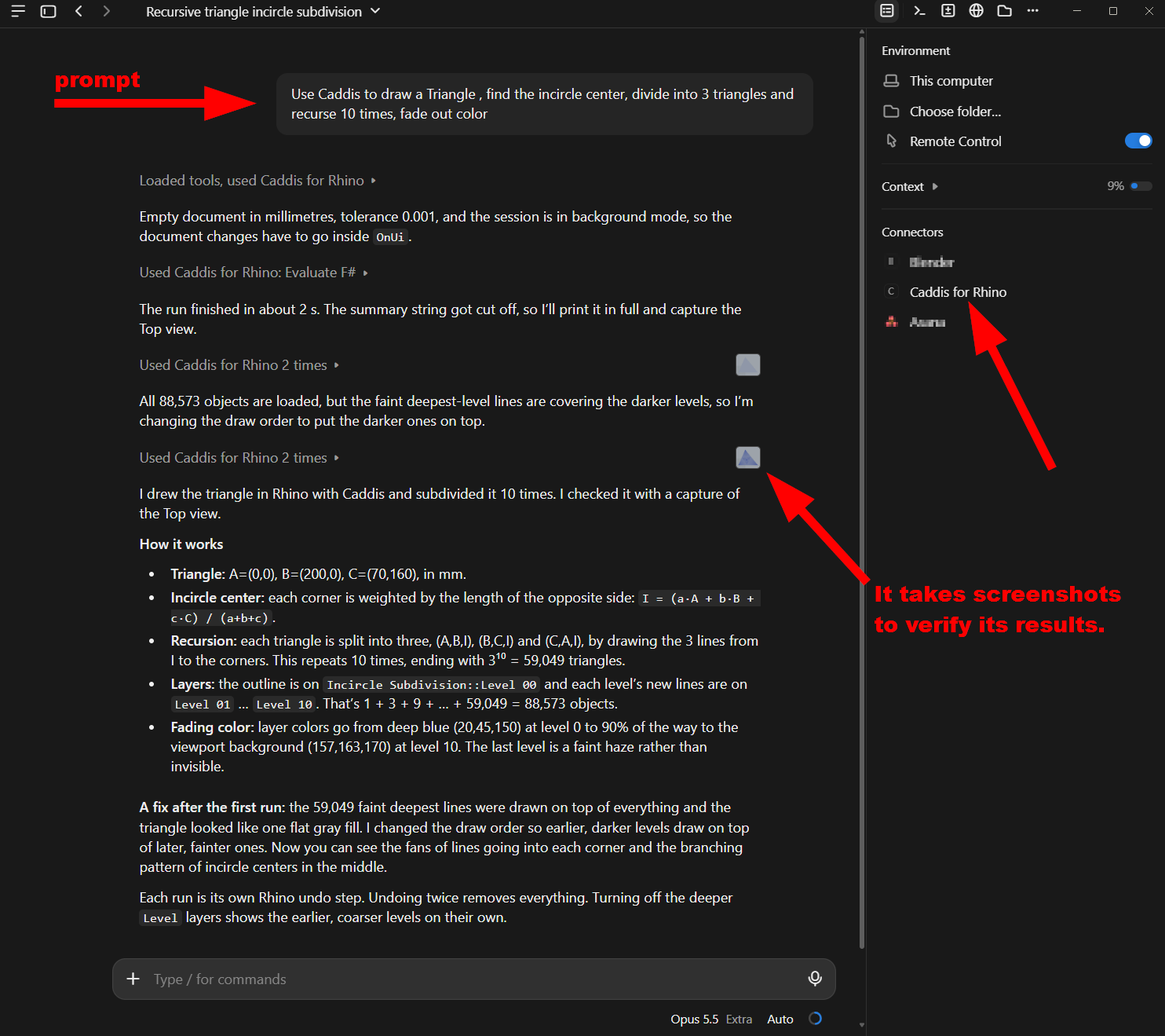
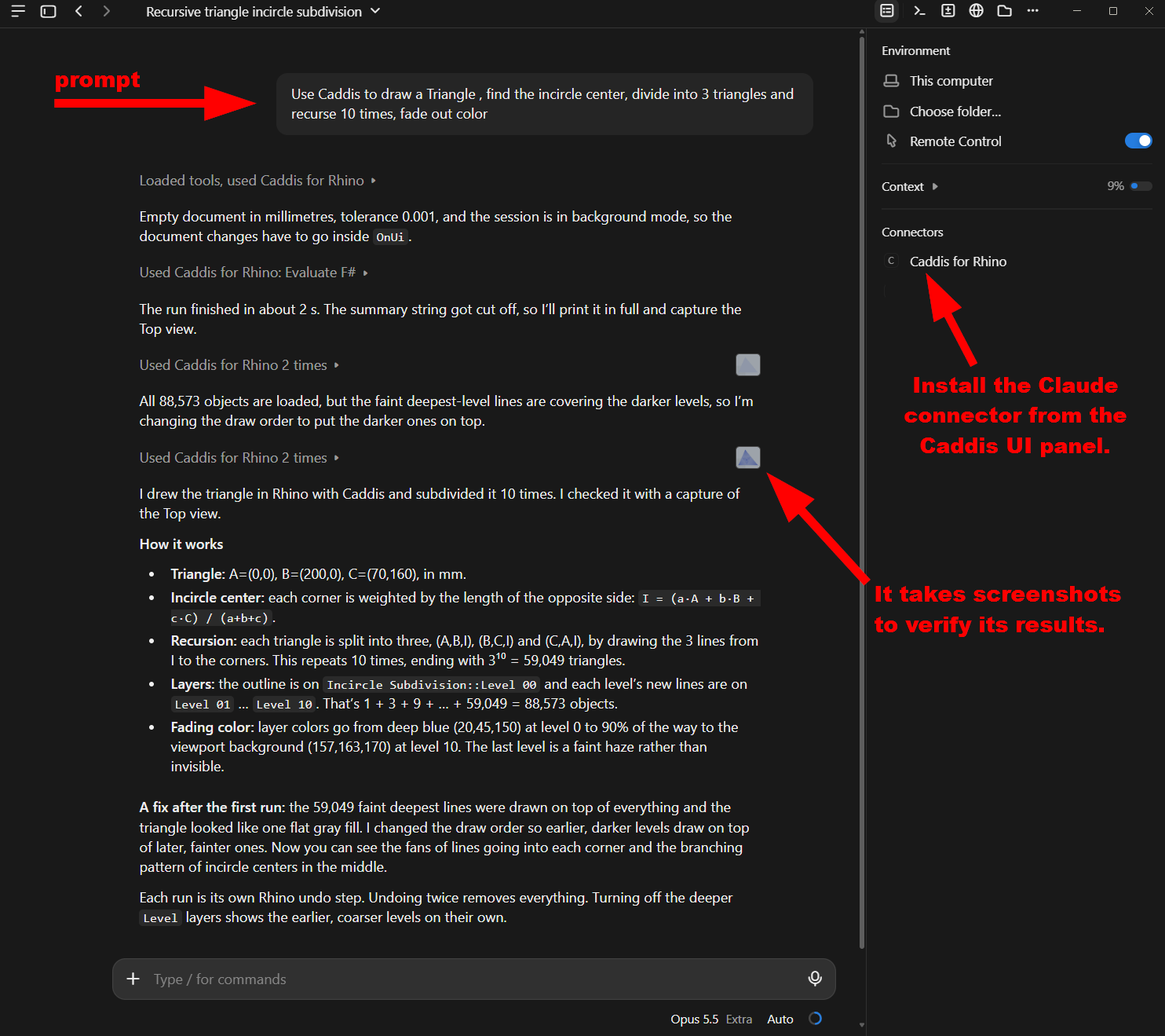
Restructure the README for people new to coding, with new panel screenshots from Rhino 9
Caddis is meant for people who are new to coding, but the README began with the MCP tools and
the REST endpoints. It now starts with what Caddis does in plain words and a screenshot of an agent at work,
then five numbered steps to get started: install Caddis, install an agent, start the server, connect the agent
with Set up, and ask for something. How it works, with a short glossary, follows the steps.
Security comes before the reference, and the details of tools, REST, NuGet, files and development are folded.

Connect an AI agent was in two places, it is now step 4, with a screenshot of the agents in the panel.
The panel screenshots of Caddis for Rhino show the new panel design, taken in Rhino 9.0 with Caddis 0.3.6.

Changed region(s): [[0.7749, 0.2487, 0.9609, 0.4663]]

diff --git a/README.md b/README.md
@@ -12,25 +12,25 @@
 [![license](https://img.shields.io/github/license/goswinr/Caddis)](LICENSE)
 ![code size](https://img.shields.io/github/languages/code-size/goswinr/Caddis.svg)
 
-An MCP server that hosts a persistent F# Interactive session inside [Rhino](https://www.rhino3d.com/), [Revit](https://www.autodesk.com/products/revit/overview) or [AutoCAD](https://www.autodesk.com/products/autocad/overview).
-AI agents run F# code that uses RhinoCommon, the Revit API or the AutoCAD .NET API in the app you are working in.
+Caddis lets an AI agent like Claude or Codex work in the [Rhino](https://www.rhino3d.com/), [Revit](https://www.autodesk.com/products/revit/overview) or [AutoCAD](https://www.autodesk.com/products/autocad/overview) you have open.
+You describe what you want in plain words. The agent writes a short F# script that uses the app's API, Caddis runs it inside the app and sends back the result,
+and the agent checks it, e.g. with a capture of the view, and corrects its script if needed.
 
-**Individual methods of the host APIs are not registered as MCP tools.** Agents discover Caddis's tools through MCP,
-then use `caddis_describe` to explore the API loaded in the running app: search names, list the types in a namespace,
-inspect a type's members, or look up a method's overloads. It returns signatures in F# syntax from reflection,
-with documentation from XML files when available, so agents can check the installed API version before using it.
-They then write F# code that calls those methods, check it with `caddis_check`, and execute it with `caddis_eval`.
+You get the code it ran too: read it to learn the API, run it again, or make a permanent plugin from it.
+This makes Caddis useful for automating your work and for trying out ideas quickly in Rhino, Revit and AutoCAD.
 
-
-Caddis runs F# scripts directly from inside the Rhino, Revit or AutoCAD process and is controlled via HTTP:
-AI agents like Claude or Codex generate the F# code and send it for evaluation and execution inside the host application via its [MCP](https://modelcontextprotocol.io) endpoint.
-
-
-Plus, you get the F# code it ran too, so you could make a permanent plugin from it.
-This makes it ideal for AI-driven automation and rapid prototyping within Rhino, Revit and AutoCAD.
+Technically, Caddis is an [MCP](https://modelcontextprotocol.io) server that hosts a persistent F# Interactive session inside the app,
+where scripts use RhinoCommon, the Revit API or the AutoCAD .NET API.
 
 > Early development. Tested in Revit 2024 and 2026.5, Rhino 8.35 and 9.0 and AutoCAD 2025 on Windows, not yet on Mac.
 
+![Claude Desktop with the prompt, the agent's runs in Rhino with its two captures of the Top view, and Caddis for Rhino among the connectors](Caddis.Rhino/Docs/Screen-Claude.png)
+
+An agent in Claude Desktop draws in Rhino, and checks its result with captures of the Top view. See the [example in Rhino](Caddis.Rhino/README.md#example-in-claude-desktop).
+
+## Getting started
+
+### 1. Install Caddis in your app
 
 | App | Runs in | Install | Read more |
 |---|---|---|---|
@@ -41,31 +41,43 @@ This makes it ideal for AI-driven automation and rapid prototyping within Rhino,
 Also install the [.NET SDK 10](https://dotnet.microsoft.com/download/dotnet/10.0) or newer, so that scripts can use NuGet packages via `#r "nuget: Name"`.
 It works for every version of Rhino, Revit and AutoCAD. Caddis runs without it, only NuGet packages need it, see [NuGet packages](#nuget-packages).
 
-## What it does
-- Hosts one persistent F# Interactive session inside the app.
-  Values, functions and types defined in one run stay available in the next.
-- Serves an MCP endpoint at `/mcp`, so AI agents can run F# in the app, and plain REST endpoints for curl and scripts.
-- Returns results: status, the value of the last expression, stdout, stderr, compiler diagnostics, exceptions with the script line, notes of the app, e.g. Revit's warnings, and files.
-  Via MCP as compact text for the model with images inline, long output shortened and saved to a file. Via REST as JSON.
-- Runs scripts either on the app's UI thread (safest, the default) or on a background thread (cancellable, with timeouts).
-- Wraps every run in one undo step, captures viewports as PNG, and exports to the file formats of the app.
-- Looks up the signatures and docs of the loaded APIs, e.g. RhinoCommon, the Revit API or the AutoCAD .NET API, so agents don't have to guess API names and overloads.
-- Shows the server state, the recent runs, and the output and code of the selected run in a panel docked in the app, in the app's light or dark theme.
-- In Rhino and AutoCAD it runs commands like typed at the command line. In Revit and AutoCAD it lists blocking dialogs and presses their buttons.
+### 2. Install an AI agent
 
-What is specific to each app, its installation, commands, panel and API, is in [Caddis for Rhino](Caddis.Rhino/README.md), [Caddis for Revit](Caddis.Revit/README.md) and [Caddis for AutoCAD](Caddis.AutoCAD/README.md).
+The Caddis panel sets up these agents for you:
+- [Claude Desktop](https://claude.ai/download), the Claude app. You don't need a terminal for it.
+- [Claude Code](https://claude.com/claude-code), Claude in the terminal or in VS Code.
+- [Codex](https://github.com/openai/codex), OpenAI's agent in the terminal.
 
-## Connect an AI agent
-Start the server in the app and open the Caddis panel. While the server runs, it shows for Claude Code, Codex and Claude Desktop whether they connect to Caddis in this app, by the color of the dot beside each agent. Its tooltip names the state:
+Other agents that can connect to an MCP server over HTTP work too. In Rhino its address is `http://127.0.0.1:7810/mcp`, see [the ports of the other apps](#4-connect-an-ai-agent).
 
+### 3. Start Caddis and open its panel
+
+| App | Open the panel | Start the server |
+|---|---|---|
+| Rhino | Run the command `Caddis` and choose `Panel` | `Start` in the panel |
+| Revit | `Caddis Details Panel` on the `Caddis` ribbon tab | `Start listening` on the ribbon tab, or `Start` in the panel |
+| AutoCAD | `Caddis Details Panel` on the `Caddis` ribbon tab | `Start listening` on the ribbon tab, or `Start` in the panel |
+
+To start the server whenever the app starts, check `Start with Rhino`, `Start with Revit` or `Start with AutoCAD` in the panel's settings.
+
+### 4. Connect an AI agent
+
+While the server runs, the panel shows whether Claude Code, Codex and Claude Desktop connect to Caddis in this app. Click `Set up` beside your agent:
+
+![The top of the Caddis panel in Rhino: the server listens, Claude Code and Claude Desktop connect to it, Codex is not set up yet and has a Set up button](Caddis.Rhino/Docs/connect.png)
+
+The color of the dot shows the state of the agent, its tooltip names it:
 - **active** (green): the agent connects to this app.
 - **not set up** (gray): `Set up` adds Caddis to the agent for all your projects, with the agent's own program, e.g. `claude mcp add ...`. For Claude Desktop it opens the extension `caddis-rhino.mcpb`, `caddis-revit.mcpb` or `caddis-autocad.mcpb`, and Claude Desktop asks to install it.
 - **inactive** (amber): the agent connects to another port, e.g. that of a second Revit with Caddis. `Activate` asks the app on that port to hand it over once it is idle, with no run in progress, and waits for that. Then this app listens on that port, and agents connected to it go on with this app. If the port can't be taken, e.g. another program uses it, `Activate` sets the agent up for this app instead.
 
+If the agent was open already, restart it, or start a new session in it: sessions that were open before it was set up see Caddis only after a restart.
 The tooltips of the buttons show the commands they run, a right-click on an agent copies them.
-Sessions of an agent that were open before it was set up see Caddis after a restart.
 
-Without the panel, run the commands yourself in a terminal. Rhino prints them to its command line when the server starts,
+<details>
+<summary>Without the panel: the commands for Claude Code and Codex</summary>
+
+Run the commands yourself in a terminal. Rhino prints them to its command line when the server starts,
 Revit and AutoCAD show them in the `Info` dialog of the `Caddis` ribbon tab, where Ctrl+C copies its text. For Claude Code:
 ```
 claude mcp add --transport http --scope user caddis-rhino http://127.0.0.1:7810/mcp
@@ -78,20 +90,12 @@ For Codex:
 codex mcp add caddis-rhino --url http://127.0.0.1:7810/mcp
 ```
 
-### Claude Desktop
-Claude Desktop can't use the URL of Caddis directly: it runs local MCP servers as programs only, and reaches the URLs of connectors
-from Anthropic's servers, which can't reach your computer. So Caddis comes as a Claude Desktop extension, a `.mcpb` file,
-whose small relay passes Claude Desktop's messages to Caddis on this computer. Claude Desktop brings the Node.js that runs it.
+</details>
 
-The panel's `Set up` makes the extension for the running app, with its port and its tools. Each [release](https://github.com/goswinr/Caddis/releases)
-also has `caddis-rhino.mcpb`, `caddis-revit.mcpb` and `caddis-autocad.mcpb` for the default ports: drag one into the window of Claude Desktop, or open it.
-On Windows, Claude Desktop isn't the app for `.mcpb` files after it is installed. If Windows asks which app to open it with, choose
-`More apps` > `Look for another app on this PC` and `%LOCALAPPDATA%\AnthropicClaude\claude.exe`, with `Always`.
-Claude Desktop from the Microsoft Store or an MSIX file isn't in that folder: drag the file into it, or choose it under Settings > Extensions.
-Its setting `Port of Caddis in Rhino`, `Port of Caddis in Revit` or `Port of Caddis in AutoCAD` in Claude Desktop under Settings > Extensions must match the port of the Caddis panel.
-While the app isn't running, the extension still lists its tools, and their results say to start the app.
+<details>
+<summary>The ports and names of the apps</summary>
 
-Each app has its own port and MCP name, so that they can run and stay registered in the agents at the same time. The MCP server titles and extension display names match the app guides and installers:
+Each app has its own port and MCP name, so that they can run and stay registered in the agents at the same time:
 
 | App | Display name | Default port | MCP name | Claude Desktop file |
 |---|---|---|---|---|
@@ -101,7 +105,96 @@ Each app has its own port and MCP name, so that they can run and stay registered
 
 If the port is taken, the next free one is used, and the panel shows the agents set up for the port as inactive.
 
-## MCP tools
+</details>
+
+<details>
+<summary>Claude Desktop: its extension and port</summary>
+
+The extension that `Set up` opens is a `.mcpb` file with the port and the tools of the running app.
+Each [release](https://github.com/goswinr/Caddis/releases) also has `caddis-rhino.mcpb`, `caddis-revit.mcpb` and `caddis-autocad.mcpb` for the default ports: drag one into the window of Claude Desktop, or open it.
+
+Its setting `Port of Caddis in Rhino`, `Port of Caddis in Revit` or `Port of Caddis in AutoCAD` in Claude Desktop under Settings > Extensions must match the port of the Caddis panel.
+While the app isn't running, the extension still lists its tools, and their results say to start the app.
+
+On Windows, Claude Desktop isn't the app for `.mcpb` files after it is installed. If Windows asks which app to open it with, choose
+`More apps` > `Look for another app on this PC` and `%LOCALAPPDATA%\AnthropicClaude\claude.exe`, with `Always`.
+Claude Desktop from the Microsoft Store or an MSIX file isn't in that folder: drag the file into it, or choose it under Settings > Extensions.
+
+Claude Desktop can't use the URL of Caddis directly: it runs local MCP servers as programs only, and reaches the URLs of connectors
+from Anthropic's servers, which can't reach your computer. That is why Caddis comes as a Claude Desktop extension,
+whose small relay passes Claude Desktop's messages to Caddis on this computer. Claude Desktop brings the Node.js that runs it.
+
+</details>
+
+### 5. Ask for something
+
+Name Caddis in your request, e.g.:
+- In Rhino: "Use Caddis to draw a triangle, find its incircle center, divide it into 3 triangles and recurse 10 times, fade out the color".
+- In Revit: "Use Caddis to list the walls in the active view with their types and lengths".
+- In AutoCAD: "Use Caddis to draw a 1000 by 600 rectangle with a circle of radius 50 in each corner".
+
+The panel lists each run of the agent with its code and output. `Run again` runs the code again, `Export` saves it to an `.fsx` file.
+On the UI thread, the default, the app is busy until a run ends.
+
+## How it works
+
+<details>
+<summary>Words used in this README</summary>
+
+- **AI agent**: an AI assistant that can use tools on your computer, e.g. Claude Desktop, Claude Code or Codex.
+- **MCP**, the [Model Context Protocol](https://modelcontextprotocol.io): the standard way for AI agents to use tools. Caddis is an MCP server: the agent connects to it and gets its tools, e.g. `caddis_eval`.
+- **F#**: the .NET programming language of the scripts. You don't need to know it to start: the agent writes the code, and you can read it to learn.
+- **F# Interactive**: runs F# code without building a project first. Caddis keeps one F# Interactive session in each app: what one run defines, the next can use.
+- **Run**: one script, command or export that Caddis ran for the agent, with an id like `r1`. The panel lists them.
+- **API**: the programming interface of the app, e.g. RhinoCommon in Rhino. Scripts call it to read and change the document.
+- **.NET SDK**: Microsoft's tools to build .NET programs. Caddis needs it only for scripts that use NuGet packages.
+- **NuGet package**: a library from [nuget.org](https://www.nuget.org), which a script loads with `#r "nuget: Name"`.
+- **Server, port**: Caddis listens for agents at an address like `http://127.0.0.1:7810`. `127.0.0.1` is this computer, `7810` the port, a number that each app gets its own of.
+- **REST**: plain HTTP requests, e.g. with `curl`, for your own scripts instead of an agent.
+
+</details>
+
+Caddis doesn't turn every method of the app's API into an MCP tool. It gives the agent a few tools to explore and use the API that is loaded in the running app:
+
+1. `caddis_describe` looks up the API: it searches names, lists the types of a namespace, the members of a type and the overloads of a method, with their docs.
+   So the agent uses the API of the app version you have installed, instead of guessing names.
+2. `caddis_check` type-checks the F# code that the agent wrote, without running it.
+3. `caddis_eval` runs the code in the app, and returns its result, its output and its errors.
+4. `caddis_capture_viewport` captures a view as an image, so that the agent sees what its code did.
+
+Every run is one undo step in the app, so you can undo what the agent did.
+
+<details>
+<summary>Everything Caddis does</summary>
+
+- Hosts one persistent F# Interactive session inside the app.
+  Values, functions and types defined in one run stay available in the next.
+- Serves an MCP endpoint at `/mcp`, so AI agents can run F# in the app, and plain REST endpoints for curl and scripts.
+- Returns results: status, the value of the last expression, stdout, stderr, compiler diagnostics, exceptions with the script line, notes of the app, e.g. Revit's warnings, and files.
+  Via MCP as compact text for the model with images inline, long output shortened and saved to a file. Via REST as JSON.
+- Runs scripts either on the app's UI thread (safest, the default) or on a background thread (cancellable, with timeouts).
+- Wraps every run in one undo step, captures viewports as PNG, and exports to the file formats of the app.
+- Looks up the signatures and docs of the loaded APIs, e.g. RhinoCommon, the Revit API or the AutoCAD .NET API, so agents don't have to guess API names and overloads.
+- Shows the server state, the recent runs, and the output and code of the selected run in a panel docked in the app, in the app's light or dark theme.
+- In Rhino and AutoCAD it runs commands like typed at the command line. In Revit and AutoCAD it lists blocking dialogs and presses their buttons.
+
+</details>
+
+What is specific to each app, its installation, commands, panel and API, is in [Caddis for Rhino](Caddis.Rhino/README.md), [Caddis for Revit](Caddis.Revit/README.md) and [Caddis for AutoCAD](Caddis.AutoCAD/README.md).
+
+## Security
+
+Caddis has no authentication: anyone who can send requests to it can run any code on your computer, with your rights.
+That code can do more than change the document, e.g. change or delete files.
+- The server only listens on localhost, so other computers can't reach it.
+- Every program on this computer can reach it, also programs of other users signed in to it.
+- Requests from web pages, with an `Origin` header, are rejected.
+
+Stop the server when you don't use it, and read the code of the runs in the panel to see what the agent did.
+
+## Reference
+
+### MCP tools
 
 | Tool | |
 |---|---|
@@ -118,6 +211,9 @@ If the port is taken, the next free one is used, and the panel shows the agents 
 | `caddis_export` | Export to a file |
 | `caddis_command` | Rhino and AutoCAD: run commands like typed at the command line, see [Rhino commands](Caddis.Rhino/README.md#rhino-commands) and [AutoCAD commands](Caddis.AutoCAD/README.md#autocad-commands) |
 | `caddis_dialog` | Revit and AutoCAD: list the app's open dialog or press one of its buttons, see [Differences to Rhino](Caddis.Revit/README.md#differences-to-rhino) and [AutoCAD commands](Caddis.AutoCAD/README.md#autocad-commands) |
+
+<details>
+<summary>More on the tools: waiting, cancelling, checking, describing and exporting</summary>
 
 `caddis_eval` returns after `waitMs` (default 50 s) with status `running` if the run has not finished, it keeps running and
 `caddis_get_run` waits for it. `timeoutMs` cancels a run, only in background mode.
@@ -141,9 +237,16 @@ Claude Code shows the model only the `structuredContent` of a result that has on
 
 Packages can ship guides for agents as MCP resources. Once an assembly of such a package is loaded with `#r "nuget: ..."`, `resources/list` lists its files, e.g. the guide of Rhino.Scripting, and `resources/read` returns them. They are documents to read, not tools.
 
+</details>
+
 ### NuGet packages
+
 Scripts can reference NuGet packages via `#r "nuget: Name"`. F# Interactive restores them with `dotnet msbuild`, so they need a .NET SDK of the app's .NET version or newer,
 e.g. the .NET SDK 8 in Rhino 8 or Revit 2025, and any SDK on .NET Framework. Everything else works without an SDK.
+
+<details>
+<summary>How Caddis finds the SDK, and what happens without it</summary>
+
 Caddis finds `dotnet` where F# Interactive does: `DOTNET_HOST_PATH`, next to the running .NET runtime, on `PATH`, then in `Program Files\dotnet`.
 Without a suitable SDK
 - `caddis_status` and `/status` report it under `nuget`, with the reason and the download page,
@@ -153,10 +256,17 @@ Without a suitable SDK
 
 An SDK installed while the app runs is found within 10 s.
 
-## REST
+</details>
+
+### REST
+
+For your own scripts, without an agent, Caddis has plain HTTP endpoints that return JSON, e.g.:
 ```
 curl http://127.0.0.1:7810/eval -d "{\"code\": \"1 + 1\"}"
 ```
+
+<details>
+<summary>All REST endpoints</summary>
 
 | Endpoint | |
 |---|---|
@@ -177,7 +287,10 @@ curl http://127.0.0.1:7810/eval -d "{\"code\": \"1 + 1\"}"
 | `GET /help` | A short description of all endpoints |
 | `POST /mcp` | MCP endpoint |
 
-## In scripts
+</details>
+
+### In scripts
+
 Caddis adds to every session:
 ```fsharp
 Caddis.Script.OutDir   // a folder for files of this run, they are returned with the result
@@ -187,7 +300,8 @@ Caddis.Script.OnUi(fun () -> ...)  // run code on the app's UI thread, needed in
 Each app references its API in every session. For its APIs and helpers, see [scripts in Rhino](Caddis.Rhino/README.md#in-scripts),
 [scripts in Revit](Caddis.Revit/README.md#in-scripts) and [runs in AutoCAD](Caddis.AutoCAD/README.md#how-runs-work-in-autocad).
 
-Scripts can check these conditional compilation symbols with `#if`, e.g. to run in several apps or runtimes:
+<details>
+<summary>Symbols for <code>#if</code>, to run a script in several apps or runtimes</summary>
 
 | Symbol | Defined |
 |---|---|
@@ -199,8 +313,14 @@ Scripts can check these conditional compilation symbols with `#if`, e.g. to run 
 
 `extraFsiArgs` in the settings file of the app can add more, e.g. `"--define:MYSYMBOL"`.
 
-## Files
-Caddis keeps its files in `%AppData%\Caddis` on Windows and in `~/.config/Caddis` on Mac:
+</details>
+
+### Files
+
+Caddis keeps its settings and logs in `%AppData%\Caddis` on Windows and in `~/.config/Caddis` on Mac.
+
+<details>
+<summary>The files in that folder</summary>
 
 | File | |
 |---|---|
@@ -214,17 +334,19 @@ Caddis keeps its files in `%AppData%\Caddis` on Windows and in `~/.config/Caddis
 | `autocad.log` | Caddis' own messages in AutoCAD |
 | `autocad-update.json` | The result of the latest update check in AutoCAD, which the panel and `Info` show |
 
-## Security
-Caddis has no authentication: anyone who can send requests to it can run any code on your computer, with your rights.
-- The server only listens on localhost, so other computers can't reach it.
-- Every program on this computer can reach it, also programs of other users signed in to it.
-- Requests from web pages, with an `Origin` header, are rejected.
+</details>
 
 ## Development
+
+To build Caddis yourself, you need Windows with the .NET 8 and .NET 10 SDKs:
 ```
 dotnet build Caddis.slnx
 dotnet test Caddis.slnx
 ```
+See [Architecture.md](Architecture.md) for the design, the API and what is not there yet.
+
+<details>
+<summary>The projects</summary>
 
 | Project | |
 |---|---|
@@ -242,12 +364,15 @@ dotnet test Caddis.slnx
 `Caddis.Core` and `Caddis.UI` target `net8.0;net10.0` with Avalonia 12, and `net48` for Rhino and Revit 2024 on .NET Framework, with Avalonia 11.
 Each app supplies the panel's actions, theme colors and docking wrapper: Eto in Rhino, WPF `HwndHost` in Revit and AutoCAD.
 What differs between them, the texts of the MCP tools, the id format of objects and whether there are commands, comes from `ICaddisHost.Info`.
-See [Architecture.md](Architecture.md) for the design, the API and what is not there yet.
+
+</details>
 
 ### Run a local build in Rhino, Revit or AutoCAD
+
 To start Rhino, Revit or AutoCAD with a local build instead of the installed Caddis, double-click e.g. `Dev\Rhino8.cmd`, `Dev\Revit2026.cmd` or `Dev\AutoCAD2025.cmd`, see [Dev/README.md](Dev/README.md).
 
 ### Releases
+
 The package version and assembly versions come from the latest versioned entry in [CHANGELOG.md](CHANGELOG.md),
 using `Ionide.KeepAChangelog.Tasks`, as in Fesh.Rhino. To publish a release:
 
@@ -258,4 +383,5 @@ The tag starts two release workflows, each needs a one-time setup:
 [Yak packages for Rhino](Caddis.Rhino/README.md#yak-releases) and [the Revit and AutoCAD installers](Caddis.Revit/README.md#releases).
 
 ## License
+
 [MIT](LICENSE)

diff --git a/Caddis.Rhino/README.md b/Caddis.Rhino/README.md
@@ -81,7 +81,7 @@ It follows Rhino's light, dark or custom theme as soon as it changes. All its bu
 | --- | --- |
 | ![The Caddis panel in Rhino's dark theme, with a run in progress and the code of the first run](Docs/panel-dark.png) | ![The Caddis panel in Rhino's light theme, with the settings unfolded and the output of the third run](Docs/panel-light.png) |
 
-Both screenshots were taken in Rhino 8.35 with Caddis 0.3.0, during and after the [exemplary run](#exemplary-run) below.
+Both screenshots were taken in Rhino 9.0 with Caddis 0.3.6, during and after the [exemplary run](#exemplary-run) below.
 
 <details>
 <summary>What the panel shows</summary>
@@ -90,7 +90,7 @@ Both screenshots were taken in Rhino 8.35 with Caddis 0.3.0, during and after th
 - `F# session` shows its state and thread mode, or the run in progress. `Cancel` stops a run on the background thread while it is in progress, `Reset` starts a new F# session.
 - While the server runs, `Agents` shows whether Claude Code, Codex and Claude Desktop connect to this Rhino:
   a green dot if they do, amber if they connect to another app, gray if they aren't set up, with `Set up` or `Activate`,
-  see [Connect an AI agent](../README.md#connect-an-ai-agent).
+  see [Connect an AI agent](../README.md#4-connect-an-ai-agent).
 - The `Settings` row shows the version of Caddis and unfolds the thread mode and the options `Start with Rhino`, `Echo output to the command line`
   and `Cancel commands in scripts that wait for input`, and shows the versions of .NET, FSharp.Core and FSharp.Compiler.Service, and whether this is the latest Caddis.
 - When a newer Caddis is on Yak, a blue notice says so: update it in Rhino's `PackageManager`.

diff --git a/Caddis.Revit/README.md b/Caddis.Revit/README.md
@@ -78,7 +78,7 @@ Caddis' own messages go to `%AppData%\Caddis\revit.log`, `Info` shows the latest
 ## Connect an AI agent
 Revit has its own settings file `%AppData%\Caddis\settings-revit.json`, the default port 7820 and the MCP name `caddis-revit`,
 so that Caddis in Rhino, Revit and AutoCAD can run and stay registered in the agents at the same time.
-The panel sets up Claude Code, Codex and Claude Desktop, see [Connect an AI agent](../README.md#connect-an-ai-agent).
+The panel sets up Claude Code, Codex and Claude Desktop, see [Connect an AI agent](../README.md#4-connect-an-ai-agent).
 Without the panel, `Info` on the ribbon shows the commands while the server runs, Ctrl+C copies the text of its dialog:
 ```
 claude mcp add --transport http --scope user caddis-revit http://127.0.0.1:7820/mcp
